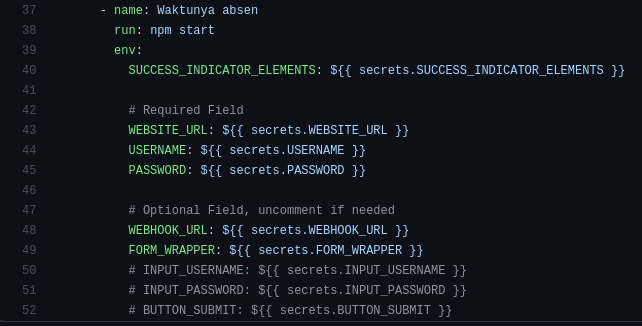
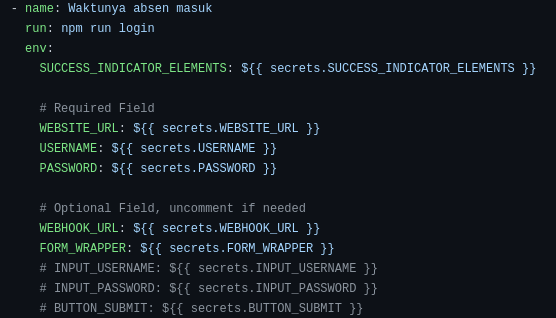
docs: memperjelas penggunaan cara pakai

diff --git a/README.md b/README.md
@@ -69,6 +69,9 @@ Buatlah secret baru untuk memberikan data-data diperlukan untuk menjalankan botn
 - `WEBSITE_URL`: Url lengkap dimana halaman loginnya
 - `USERNAME`: Username/email dari akun yang dipakai untuk absensi
 - `PASSWORD`: Password dari akun yang dipakai untuk absensi
+- `LOGOUT_BOX`: HTML Element yang dijadikan tombol profile yang nantinya berisikan tombol logout
+- `LOGOUT_BUTTON`: HTML Element yang dijadikan tombol logout
+- `CONFIRM_LOGOUT_BUTTON`: HTML Element yang dijadikan tombol konfirmasi logout
 
 Konfigurasi lain yang dapat diberikan ke bot ini.
 
@@ -81,7 +84,21 @@ Konfigurasi lain yang dapat diberikan ke bot ini.
 
 > Atau versi lebih simple ada di [.sample.env](.sample.env)
 
-Selanjutnya adalah penyesuaian github action, nama filenya adalah `automator.yml` dengan path lengkapnya `.github/workflows/automator.yml`. Jangan diubah-ubah environment variable, ubah saja bagian yang optional.
+<!-- Selanjutnya adalah penyesuaian github action, nama filenya adalah `automator.yml` dengan path lengkapnya `.github/workflows/automator.yml`. Jangan diubah-ubah environment variable, ubah saja bagian yang optional. -->
+
+Selanjutnya adalah penyesuaian github action, karena terdapat dua fungsi yang melakukan hal yang berbeda, jadi sesuai ada dua file yang digunakan sebagai github action yaitu file `login.yml` dan `logout.yml`.
+
+Jika ingin mengubah kedua file tersebut ada dua hal yang bisa diubah, yaitu bagian **schedule cron job** dan **environment variable**. Berikut adalah penjelasannya.
+
+1. Schedule cron job
+
+Schedule cron job bisa diatur sesuka hati dengan catatan, waktu yang digunakan oleh github adalah waktu UTC jadi pastikan kembali apakah zona waktu dan jam sudah sesuai dengan apa yang diharapkan sebelumnya.
+
+Default waktu login adalah `06:40 Waktu Indonesia Barat` dan logout `13:00 Waktu Indonesia Barat`. Github action berjalan dari hari Senin sampai hari Jum'at.
+
+2. Environment variable
+
+Jika scroll kedua action tersebut sampai ke bawah, maka akan ditemukan keduanya memiliki kesamaaan yaitu memiliki environment variable yang wajib dan opsional. Hanya edit bagian opsional, jika bagian yang wajib dihapus maka bot tidak akan berjalan sebagaimana mestinya.
 
 ![Bagian yang dimaksud](assets/img/Bagian_Yang_Dimaksud.png)
 
